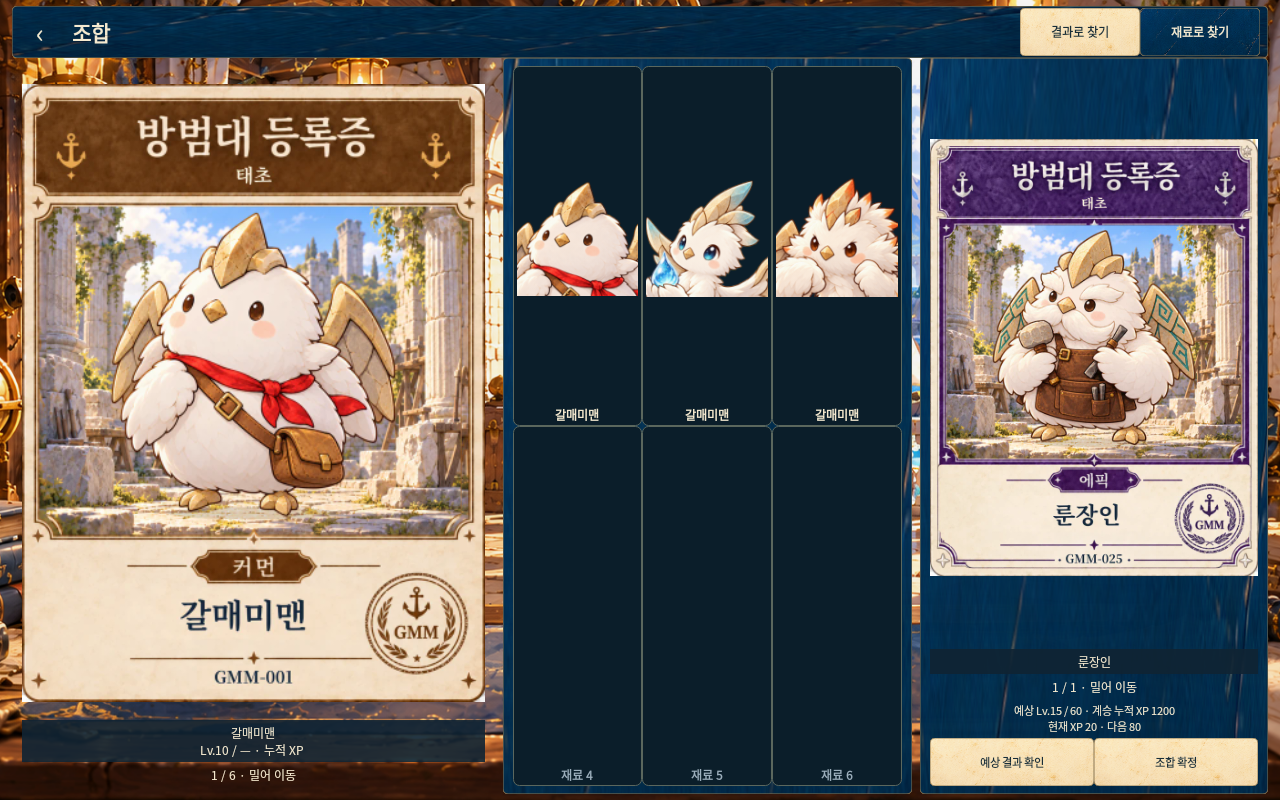
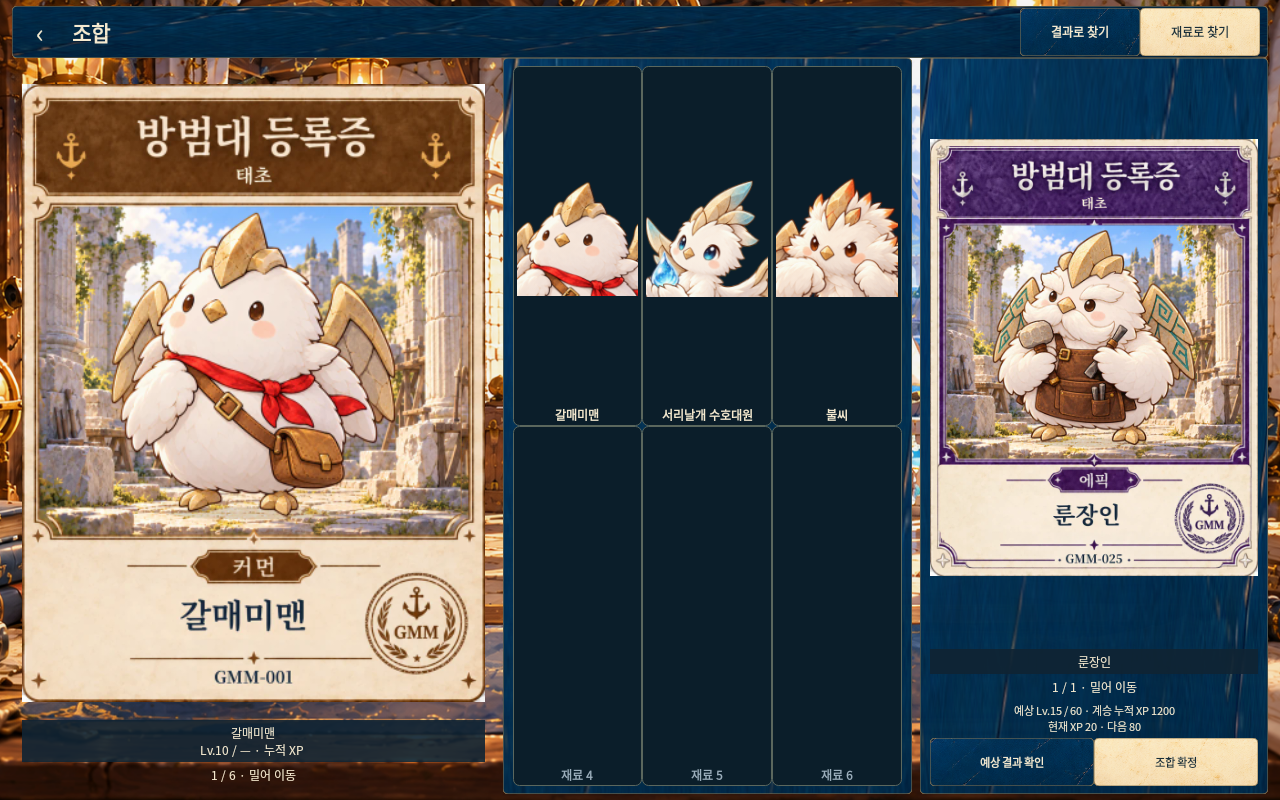
Correct formation navigation and craft emphasis after native render QA

diff --git a/galmaegiman-confirmed/app/android/app/src/test/java/org/dpdns/gmm/Roster60ProductPresentationTest.java b/galmaegiman-confirmed/app/android/app/src/test/java/org/dpdns/gmm/Roster60ProductPresentationTest.java
@@ -12,7 +12,7 @@ public class Roster60ProductPresentationTest {
  final NativeGameFlowTest fixtures=new NativeGameFlowTest();
  @Before public void isolate(){fixtures.isolate();}
  void authenticate(MainActivity h){h.api.close();h.api=new NativeReviewDeepLinkTest.Recording(h);h.api.token("presentation-fixture");}
- JSONObject fighter(String id)throws Exception {JSONArray skills=new JSONArray();for(int i=0;i<6;i++)skills.put(new JSONObject().put("id","s"+i).put("name","기술 "+i).put("element","NORMAL").put("mpCost",2).put("power",12));return new JSONObject().put("speciesId",id).put("name","갈매미맨").put("level",10).put("hp",120).put("mp",23).put("stats",new JSONObject().put("hp",150).put("mp",30).put("durability",15).put("statusResistance",10).put("speed",20)).put("suitability",new JSONObject().put("NORMAL",2)).put("skills",skills);}
+ JSONObject fighter(String id)throws Exception {JSONArray skills=new JSONArray();for(int i=0;i<6;i++)skills.put(new JSONObject().put("id","s"+i).put("name","기술 "+i).put("element","NORMAL").put("mpCost",2).put("power",12));return new JSONObject().put("speciesId",id).put("name",id.equals("u01")?"갈매미맨":id.equals("u07")?"불씨":id.equals("u06")?"서리날개 수호대원":id.equals("u05")?"황금":"먹구름").put("rarity",id.equals("u01")?"COMMON":"EPIC").put("level",10).put("hp",120).put("mp",23).put("stats",new JSONObject().put("hp",150).put("mp",30).put("durability",15).put("statusResistance",10).put("speed",20)).put("suitability",new JSONObject().put("NORMAL",2)).put("skills",skills);}
  JSONObject snapshot(String status)throws Exception{return new JSONObject().put("battleId","fixture-battle").put("revision",1).put("status",status).put("testBaseline",true).put("balanceProfile","not-for-player-screen").put("state",new JSONObject().put("version","five-battle-v1").put("turn",2).put("outcome","win").put("mode","story").put("fighters",new JSONArray().put(fighter("u01")).put(fighter("u07")))).put("settlement",new JSONObject().put("xpAwarded",10));}
  @Test public void battlefieldHasAttachedVitalsAndCompactCommandsWithoutDebugControls()throws Exception{
   try(var c=fixtures.start()){MainActivity h=c.get();authenticate(h);NativeRoster60Battle b=new NativeRoster60Battle(h){@Override void resume(){}};b.open();b.bind(snapshot("ACTIVE"));
@@ -42,6 +42,18 @@ public class Roster60ProductPresentationTest {
   }
  }
 
+ @Test public void craftTabsMatchVisibleModeAndOnlyConfirmIsPrimary()throws Exception{
+  try(var c=fixtures.start()){MainActivity h=c.get();authenticate(h);NativeRoster60Craft craft=new NativeRoster60Craft(h.menus.economy);
+   for(boolean material:new boolean[]{true,false,true}){craft.open(material);craft.loading=false;craft.units=new JSONArray().put(fighter("u01").put("ownedId","one"));craft.recipes=new JSONArray().put(new JSONObject().put("resultId","u07").put("name","불씨"));craft.render();
+    assertEquals(material,h.root.findViewWithTag("craft-tab-material").isSelected());assertEquals(!material,h.root.findViewWithTag("craft-tab-result").isSelected());assertNotNull(craft.cols[0].findViewWithTag(material?"craft-material-portrait":"craft-result-portrait"));assertEquals(NavyWorkbenchTheme.TEXT,craft.previewButton.getCurrentTextColor());assertEquals(NavyWorkbenchTheme.INK,craft.confirmButton.getCurrentTextColor());
+   }craft.leave();}
+ }
+ @Test public void formationSwipeCancelsTileClickAndBackRestoresMode()throws Exception{
+  try(var c=fixtures.start()){MainActivity h=c.get();authenticate(h);NativeRoster60Battle b=new NativeRoster60Battle(h){@Override void resume(){}@Override void options(){message.setText("전투 선택");}};b.open();b.bind(snapshot("ACTIVE"));JSONArray units=new JSONArray();for(int i=0;i<8;i++)units.put(fighter("u01").put("ownedId","o"+i));b.showFormation(units,new JSONObject().put("mode","adventure"));assertTrue(b.message.getText().toString().contains("모험"));Roster60FormationView f=b.formation;
+   h.root.measure(View.MeasureSpec.makeMeasureSpec(780,View.MeasureSpec.EXACTLY),View.MeasureSpec.makeMeasureSpec(319,View.MeasureSpec.EXACTLY));h.root.layout(0,0,780,319);View row=f.findViewWithTag("formation-owned-swipe");long time=android.os.SystemClock.uptimeMillis();for(int action:new int[]{MotionEvent.ACTION_DOWN,MotionEvent.ACTION_MOVE,MotionEvent.ACTION_UP}){MotionEvent e=MotionEvent.obtain(time,time+10,action,action==MotionEvent.ACTION_DOWN?200:80,30,0);row.dispatchTouchEvent(e);e.recycle();}assertEquals(1,f.page);assertTrue(f.selected.isEmpty());b.back();assertNull(b.formation);assertEquals("전투 선택",b.message.getText().toString());b.bind(snapshot("ACTIVE"));assertTrue(b.message.getText().toString().startsWith("턴"));b.pause();
+  }
+ }
+
  void capture(MainActivity h,String name,int w,int height)throws Exception{
   h.root.measure(View.MeasureSpec.makeMeasureSpec(w,View.MeasureSpec.EXACTLY),View.MeasureSpec.makeMeasureSpec(height,View.MeasureSpec.EXACTLY));h.root.layout(0,0,w,height);
   android.graphics.Bitmap bitmap=android.graphics.Bitmap.createBitmap(w,height,android.graphics.Bitmap.Config.ARGB_8888);h.root.draw(new android.graphics.Canvas(bitmap));
@@ -57,7 +69,7 @@ public class Roster60ProductPresentationTest {
    NativeRoster60ProductBattleTest.named(b.panel,"기술").performClick();capture(h,"skills",size[0],size[1]);
    Button skill=NativeRoster60ProductBattleTest.named(b.panel,"기술 1");long down=android.os.SystemClock.uptimeMillis();NativeRoster60ProductBattleTest.touch(skill,MotionEvent.ACTION_DOWN,down);ShadowLooper.idleMainLooper((long)ViewConfiguration.getLongPressTimeout()+1);capture(h,"hold",size[0],size[1]);assertEquals(View.VISIBLE,h.root.findViewWithTag("battle-hold-description").getVisibility());NativeRoster60ProductBattleTest.touch(skill,MotionEvent.ACTION_UP,down);assertEquals(View.INVISIBLE,h.root.findViewWithTag("battle-hold-description").getVisibility());
    b.chooseSwitch();b.choicePanel.findViewWithTag("battle-switch-reserve0").performClick();capture(h,"switch",size[0],size[1]);assertTrue(b.choicePanel.findViewWithTag("battle-switch-confirm").isEnabled());
-   JSONArray units=new JSONArray();for(int i=0;i<6;i++)units.put(fighter(i==0?"u01":ids[i-1]).put("ownedId","o"+i));b.closeChoices();b.showFormation(units,new JSONObject().put("mode","story").put("id","fixture"));for(int i=0;i<6;i++)b.formation.toggle(units.getJSONObject(i));capture(h,"formation",size[0],size[1]);assertTrue(b.formation.start.getHeight()>=48);b.pause();
+   JSONArray units=new JSONArray();for(int i=0;i<6;i++)units.put(fighter(i==0?"u01":ids[i-1]).put("ownedId","o"+i));b.closeChoices();b.showFormation(units,new JSONObject().put("mode","story").put("id","fixture"));for(int i=0;i<6;i++)b.formation.toggle(units.getJSONObject(i));b.formation.focused="o1";b.formation.draw();assertTrue(b.message.getText().toString().startsWith("전투 편성"));assertFalse(b.message.getText().toString().contains("턴 2"));capture(h,"formation",size[0],size[1]);assertTrue(b.formation.start.getHeight()>=48);b.pause();
    NativeRoster60Craft craft=new NativeRoster60Craft(h.menus.economy);craft.open(true);craft.loading=false;craft.version="render-fixture";craft.preview=new JSONObject().put("expectedLevel",15).put("maxLevel",60).put("inheritedTotalXp","1200").put("remainingXp","20").put("xpToNext","80");craft.units=units;craft.recipes=new JSONArray().put(new JSONObject().put("resultId","u25").put("name","룬장인"));for(int i=0;i<3;i++)craft.selected.put("o"+i,units.getJSONObject(i));craft.render();capture(h,"craft",size[0],size[1]);craft.leave();
   }
  }

diff --git a/galmaegiman-confirmed/app/android/app/src/main/java/org/dpdns/gmm/Roster60FormationView.java b/galmaegiman-confirmed/app/android/app/src/main/java/org/dpdns/gmm/Roster60FormationView.java
@@ -3,15 +3,17 @@ import android.view.*;import android.widget.*;import org.json.*;import java.util
 /** Product party selection before a server battle; no fixture, local combat or grant. */
 final class Roster60FormationView extends LinearLayout {
  final MainActivity h;final JSONArray units;final Consumer<JSONArray> confirm;final ArrayList<String> selected=new ArrayList<>();
- final LinearLayout left,right;final ImageView focus;final TextView caption;final Button start;int page;String focused="";boolean locked;
+ final LinearLayout left,right;final ImageView focus;final TextView caption,title,level;final Button start;int page;String focused="";boolean locked;
  Roster60FormationView(MainActivity h,JSONArray units,Consumer<JSONArray> confirm,Runnable cancel){
   super(h);this.h=h;this.units=units;this.confirm=confirm;setOrientation(HORIZONTAL);setTag("roster60-formation");setBackground(ThemeArt.of(h).background("backgrounds/bg-navigation-workshop-v1.png"));
   left=new LinearLayout(h);left.setOrientation(VERTICAL);left.setBackground(NavyWorkbenchTheme.surface(h,NavyWorkbenchTheme.PANEL,NavyWorkbenchTheme.LINE,8));addView(left,new LayoutParams(0,-1,3));
   right=new LinearLayout(h);right.setOrientation(VERTICAL);right.setBackground(NavyWorkbenchTheme.surface(h,NavyWorkbenchTheme.PANEL,NavyWorkbenchTheme.LINE,8));addView(right,new LayoutParams(0,-1,1));
+  title=h.text("대원을 선택하세요",16);CombatV2ReviewStyle.text(title);title.setTextColor(NavyWorkbenchTheme.TEXT);title.setMaxLines(1);title.setEllipsize(android.text.TextUtils.TruncateAt.END);right.addView(title);level=h.text("출전 1 + 예비 5",12);CombatV2ReviewStyle.text(level);level.setTextColor(NavyWorkbenchTheme.MUTED);right.addView(level);
   focus=new ImageView(h);focus.setTag("formation-focused-portrait");right.addView(focus,new LayoutParams(-1,0,1));caption=h.text("출전 1 + 예비 최대 5",12);CombatV2ReviewStyle.text(caption);caption.setTextColor(NavyWorkbenchTheme.TEXT);right.addView(caption);
   start=h.button("편성 확정 · 전투 시작",()->{if(locked||selected.isEmpty())return;submit();});start.setTag("formation-confirm");start.setTextSize(12);start.setBackground(new BattleSkin(h,"button-surrender"));CombatV2ReviewStyle.text(start);start.setTextColor(JournalTheme.INK);right.addView(start,new LayoutParams(-1,h.dp(48)));
-  right.addView(h.button("돌아가기",cancel),new LayoutParams(-1,h.dp(48)));draw();
+  if(units.length()>0)focused=units.optJSONObject(0).optString("ownedId");draw();
  }
+ static String grade(String grade){switch(grade){case "COMMON":return "커먼";case "UNCOMMON":return "언커먼";case "RARE":return "레어";case "EPIC":return "에픽";case "LEGEND":return "전설";case "HIDDEN":return "히든";case "LIMITED":return "제한";case "TRANSCENDENT":return "초월";case "IMMORTAL":return "불멸";case "ETERNAL":return "영원";default:return grade;}}
  static String memberDetails(JSONObject u){String text=u.optString("name")+(u.has("level")?" · Lv"+u.optInt("level")+"/"+u.optInt("maxLevel",60):"");JSONObject stats=u.optJSONObject("stats");if(stats!=null)text+="\nHP "+stats.optInt("hp")+" · MP "+stats.optInt("mp")+"\n내구 "+stats.optInt("durability")+" · 저항 "+stats.optInt("statusResistance")+" · 속도 "+stats.optInt("speed");return text;}
  JSONObject unit(String id){for(int i=0;i<units.length();i++)if(id.equals(units.optJSONObject(i).optString("ownedId")))return units.optJSONObject(i);return null;}
  void toggle(JSONObject u){if(locked)return;String id=u.optString("ownedId");focused=id;if(selected.contains(id))selected.remove(id);else if(selected.size()<6)selected.add(id);draw();}
@@ -19,9 +21,9 @@ final class Roster60FormationView extends LinearLayout {
  void unlock(){locked=false;draw();}
  void draw(){left.removeAllViews();LinearLayout slots=new LinearLayout(h);left.addView(slots,new LayoutParams(-1,0,1));
   for(int n=0;n<6;n++){JSONObject u=n<selected.size()?unit(selected.get(n)):null;Roster60MemberTile tile=new Roster60MemberTile(h,u,(n==0?"출전":"예비 "+n)+(u==null?"":" · "+u.optString("name")),u!=null&&!locked,()->toggle(u));slots.addView(tile,new LayoutParams(0,-1,1));}
-  int pages=Math.max(1,(units.length()+2)/3);page=Math.min(page,pages-1);
-  for(int row=0;row<1;row++){LinearLayout line=new LinearLayout(h);left.addView(line,new LayoutParams(-1,0,1));for(int col=0;col<3;col++){int index=page*3+col;if(index>=units.length()){line.addView(new View(h),new LayoutParams(0,-1,1));continue;}JSONObject u=units.optJSONObject(index);Roster60MemberTile tile=new Roster60MemberTile(h,u,(selected.contains(u.optString("ownedId"))?"✓ ":"")+u.optString("name"),!locked,()->toggle(u));tile.action.setTag("formation-unit-"+u.optString("ownedId"));line.addView(tile,new LayoutParams(0,-1,1));}}
-  if(pages>1){LinearLayout nav=new LinearLayout(h);Button prev=h.button("‹",()->{page--;draw();}),next=h.button("›",()->{page++;draw();});prev.setEnabled(page>0&&!locked);next.setEnabled(page<pages-1&&!locked);nav.addView(prev,new LayoutParams(0,h.dp(48),1));nav.addView(next,new LayoutParams(0,h.dp(48),1));left.addView(nav);}
-  JSONObject u=unit(focused);if(u!=null){Roster60Portrait.bind(h,focus,u.optString("speciesId"));caption.setText(memberDetails(u)+"\n편성 "+selected.size()+"/6");}start.setEnabled(!locked&&!selected.isEmpty());
+  int pages=Math.max(1,(units.length()+3)/4);page=Math.min(page,pages-1);
+  for(int row=0;row<1;row++){LinearLayout line=new Roster60SwipeRow(h,d->{if(!locked){page=Math.max(0,Math.min(pages-1,page+d));draw();}});line.setTag("formation-owned-swipe");left.addView(line,new LayoutParams(-1,0,1));for(int col=0;col<4;col++){int index=page*4+col;if(index>=units.length()){line.addView(new View(h),new LayoutParams(0,-1,1));continue;}JSONObject u=units.optJSONObject(index);Roster60MemberTile tile=new Roster60MemberTile(h,u,(selected.contains(u.optString("ownedId"))?"✓ ":"")+u.optString("name"),!locked,()->toggle(u));tile.action.setTag("formation-unit-"+u.optString("ownedId"));line.addView(tile,new LayoutParams(0,-1,1));}}
+  TextView indicator=h.text((page+1)+" / "+pages+" · 좌우로 넘기기",11);CombatV2ReviewStyle.text(indicator);indicator.setTextColor(NavyWorkbenchTheme.MUTED);indicator.setGravity(Gravity.CENTER);indicator.setTag("formation-page");left.addView(indicator,new LayoutParams(-1,h.dp(22)));
+  JSONObject u=unit(focused);if(u!=null){Roster60Portrait.bind(h,focus,u.optString("speciesId"));title.setText(u.optString("name"));level.setText(grade(u.optString("rarity"))+" · Lv"+u.optInt("level",1)+"/"+u.optInt("maxLevel",60));JSONObject st=u.optJSONObject("stats");caption.setText(st==null?"편성 "+selected.size()+"/6":"HP "+st.optInt("hp")+" · MP "+st.optInt("mp")+"\n내구 "+st.optInt("durability")+" · 저항 "+st.optInt("statusResistance")+" · 속도 "+st.optInt("speed"));}start.setEnabled(!locked&&!selected.isEmpty());
  }
 }

diff --git a/galmaegiman-confirmed/app/android/app/src/main/java/org/dpdns/gmm/NativeRoster60Battle.java b/galmaegiman-confirmed/app/android/app/src/main/java/org/dpdns/gmm/NativeRoster60Battle.java
@@ -8,7 +8,7 @@ import org.json.*;
 class NativeRoster60Battle {
  final MainActivity h; final SharedPreferences prefs;
  static final Set<String> IN_FLIGHT=new HashSet<>();
- String owner,key,autoSettled="",settlementError=""; int epoch; LinearLayout container; TextView message,stats; Button retry,settle,returnAdventure;
+ String owner,key,autoSettled="",settlementError=""; int epoch; LinearLayout container; TextView message,stats; Button retry,settle,returnAdventure,home;
  Roster60FormationView formation;LinearLayout arena;
  LinearLayout choicePanel;String choiceKind="",switchTarget="",targetItem="";int itemPage;
  NativeRoster60Art art; CombatV2ReviewPanel panel; JSONObject view,adventure; boolean reading; android.app.AlertDialog selection;
@@ -22,7 +22,7 @@ class NativeRoster60Battle {
   h.base("전투","roster60Battle");owner=h.api.token();key=NativeProgression.accountKey(BuildConfig.SERVER_URL+"|"+owner+storageScope());epoch=h.epoch;
   h.page.removeAllViews();
   container=new LinearLayout(h);container.setOrientation(LinearLayout.VERTICAL);container.setBackgroundColor(NavyWorkbenchTheme.HEADER);h.page.addView(container,new LinearLayout.LayoutParams(-1,0,1));
-  LinearLayout toolbar=new LinearLayout(h);Button home=h.button("‹ 홈",()->back());home.setTextSize(12);toolbar.addView(home,new LinearLayout.LayoutParams(h.dp(72),h.dp(48)));
+  LinearLayout toolbar=new LinearLayout(h);home=h.button("‹ 홈",()->back());home.setTextSize(12);toolbar.addView(home,new LinearLayout.LayoutParams(h.dp(72),h.dp(48)));
   message=h.text("전투 확인 중…",12);message.setTextColor(NavyWorkbenchTheme.TEXT);message.setMaxLines(2);toolbar.addView(message,new LinearLayout.LayoutParams(0,h.dp(48),1));container.addView(toolbar);
   // Same field/right-hand command split as production BattleView.onMeasure().
   arena=new LinearLayout(h);arena.setOrientation(LinearLayout.HORIZONTAL);arena.setBaselineAligned(false);container.addView(arena,new LinearLayout.LayoutParams(-1,0,1));
@@ -69,10 +69,10 @@ class NativeRoster60Battle {
   });
  }
  void showFormation(JSONArray units,JSONObject encounter){
-  if(formation!=null)container.removeView(formation);arena.setVisibility(android.view.View.GONE);
+  if(formation!=null)container.removeView(formation);panel.cancelInteraction();arena.setVisibility(android.view.View.GONE);home.setText("‹ 뒤로");message.setText("전투 편성 · "+("adventure".equals(encounter.optString("mode"))?"모험":"스토리")+" · 출전 1 + 예비 5");
   formation=new Roster60FormationView(h,units,ids->{if(!current())return;if(!prefs.getString(key+":pending","").isEmpty()){resume();return;}if("adventure".equals(encounter.optString("mode")))mutate("adventure/start",h.obj("ownedIds",ids));else{JSONArray reserves=new JSONArray();for(int i=1;i<ids.length();i++)reserves.put(ids.optString(i));mutate("create",h.obj("ownedId",ids.optString(0),"reserveIds",reserves,"encounterId",encounter.optString("id")));}},()->{clearFormation();options();});container.addView(formation,new LinearLayout.LayoutParams(-1,0,1));
  }
- void clearFormation(){if(formation!=null){container.removeView(formation);formation=null;}arena.setVisibility(android.view.View.VISIBLE);}
+ void clearFormation(){if(formation!=null){container.removeView(formation);formation=null;}arena.setVisibility(android.view.View.VISIBLE);if(home!=null)home.setText("‹ 홈");}
  void chooseReserves(JSONArray units,String first,String encounter,boolean isAdventure){
   ArrayList<JSONObject> candidates=new ArrayList<>();for(int i=0;i<units.length();i++)if(!first.equals(units.optJSONObject(i).optString("ownedId")))candidates.add(units.optJSONObject(i));
   String[] names=new String[candidates.size()];boolean[] checked=new boolean[names.length];for(int i=0;i<names.length;i++)names[i]=candidates.get(i).optString("name");
@@ -157,6 +157,6 @@ class NativeRoster60Battle {
   }catch(Exception bad){view=null;panel.lock();settle.setEnabled(false);message.setText("서버 전투 데이터 형식을 확인할 수 없습니다.");}
  }
  static String resultLabel(String outcome){return "win".equals(outcome)?"승리":"loss".equals(outcome)?"패배":"escaped".equals(outcome)?"도망 성공":"전투 종료";}
- boolean back(){if(!choiceKind.isEmpty()){closeChoices();return true;}if(panel!=null){panel.cancelInteraction();if(panel.showCommands())return true;}h.load("home");return true;}
+ boolean back(){if(formation!=null){clearFormation();message.setText("전투를 선택하세요.");options();return true;}if(!choiceKind.isEmpty()){closeChoices();return true;}if(panel!=null){panel.cancelInteraction();if(panel.showCommands())return true;}h.load("home");return true;}
  void pause(){if(panel!=null)panel.cancelInteraction();if(selection!=null){selection.dismiss();selection=null;}}
 }

diff --git a/galmaegiman-confirmed/app/android/app/src/main/java/org/dpdns/gmm/NativeRoster60Pvp.java b/galmaegiman-confirmed/app/android/app/src/main/java/org/dpdns/gmm/NativeRoster60Pvp.java
@@ -39,10 +39,10 @@ final class NativeRoster60Pvp {
  LinearLayout slots=new LinearLayout(h);roster.addView(slots,new LinearLayout.LayoutParams(-1,0,1));
  for(int slot=0;slot<6;slot++){final String id=slot<selected.size()?selected.get(slot):"";JSONObject u=unit(id);String title=(slot==0?"출전":"예비 "+slot)+(u==null?"": " · "+u.optString("name"));Roster60MemberTile tile=new Roster60MemberTile(h,u,title,u!=null&&!busy&&!waiting,()->{focused=id;selected.remove(id);drawParty();});tile.setTag("party-selected-"+slot);slots.addView(tile,new LinearLayout.LayoutParams(0,-1,1));}
  JSONObject focus=unit(focused);if(focus==null&&!selected.isEmpty()){focused=selected.get(0);focus=unit(focused);}if(focus!=null){Roster60Portrait.bind(h,focusedArt,focus.optString("speciesId"));focusedName.setText(Roster60FormationView.memberDetails(focus));}
-int pages=Math.max(1,(units.length()+2)/3);rosterPage=Math.min(rosterPage,pages-1);
+int pages=Math.max(1,(units.length()+3)/4);rosterPage=Math.min(rosterPage,pages-1);
  if(units.length()==0){TextView empty=h.text("표시할 새 개체가 없습니다.\n튜토리얼 시작 상태를 확인하세요.",14);empty.setTextColor(NavyWorkbenchTheme.TEXT);roster.addView(empty,new LinearLayout.LayoutParams(-1,0,1));Button start=h.button("튜토리얼 확인",()->new NativeRoster60Onboarding(h).open());style(start);roster.addView(start,new LinearLayout.LayoutParams(-1,h.dp(48)));}
- else for(int row=0;row<1;row++){LinearLayout line=new LinearLayout(h);roster.addView(line,new LinearLayout.LayoutParams(-1,0,1));for(int col=0;col<3;col++){int i=rosterPage*3+col;if(i>=units.length()){line.addView(new android.view.View(h),new LinearLayout.LayoutParams(0,-1,1));continue;}JSONObject u=units.optJSONObject(i);String id=u.optString("ownedId");Roster60MemberTile tile=new Roster60MemberTile(h,u,(selected.contains(id)?"✓ ":"")+u.optString("name")+(selected.indexOf(id)==0?" · 출전":""),!busy&&!waiting,()->{if(busy||waiting)return;focused=id;if(selected.contains(id))selected.remove(id);else if(selected.size()<6)selected.add(id);else status.setText("출전 포함 최대 6마리입니다.");drawParty();});tile.action.setTag("party-unit-"+id);line.addView(tile,new LinearLayout.LayoutParams(0,-1,1));}}
- if(pages>1){LinearLayout nav=new LinearLayout(h);roster.addView(nav,new LinearLayout.LayoutParams(-1,h.dp(48)));Button prev=h.button("‹",()->{rosterPage=Math.max(0,rosterPage-1);drawParty();}),next=h.button("›",()->{rosterPage=Math.min(pages-1,rosterPage+1);drawParty();});style(prev);style(next);prev.setEnabled(rosterPage>0);next.setEnabled(rosterPage<pages-1);nav.addView(prev,new LinearLayout.LayoutParams(0,-1,1));TextView page=h.text((rosterPage+1)+" / "+pages,12);page.setTextColor(NavyWorkbenchTheme.TEXT);nav.addView(page,new LinearLayout.LayoutParams(0,-1,1));nav.addView(next,new LinearLayout.LayoutParams(0,-1,1));}
+ else for(int row=0;row<1;row++){LinearLayout line=new Roster60SwipeRow(h,d->{if(!busy&&!waiting){rosterPage=Math.max(0,Math.min(pages-1,rosterPage+d));drawParty();}});roster.addView(line,new LinearLayout.LayoutParams(-1,0,1));for(int col=0;col<4;col++){int i=rosterPage*4+col;if(i>=units.length()){line.addView(new android.view.View(h),new LinearLayout.LayoutParams(0,-1,1));continue;}JSONObject u=units.optJSONObject(i);String id=u.optString("ownedId");Roster60MemberTile tile=new Roster60MemberTile(h,u,(selected.contains(id)?"✓ ":"")+u.optString("name")+(selected.indexOf(id)==0?" · 출전":""),!busy&&!waiting,()->{if(busy||waiting)return;focused=id;if(selected.contains(id))selected.remove(id);else if(selected.size()<6)selected.add(id);else status.setText("출전 포함 최대 6마리입니다.");drawParty();});tile.action.setTag("party-unit-"+id);line.addView(tile,new LinearLayout.LayoutParams(0,-1,1));}}
+ TextView page=h.text((rosterPage+1)+" / "+pages+" · 좌우로 넘기기",11);CombatV2ReviewStyle.text(page);page.setGravity(Gravity.CENTER);page.setTextColor(NavyWorkbenchTheme.MUTED);roster.addView(page,new LinearLayout.LayoutParams(-1,h.dp(22)));
  summary.setText("편성 "+selected.size()+" / 6 · 먼저 선택한 개체가 첫 출전 · 탭으로 추가/해제");enable();
  }
 

diff --git a/galmaegiman-confirmed/app/android/app/src/main/java/org/dpdns/gmm/NativeRoster60Craft.java b/galmaegiman-confirmed/app/android/app/src/main/java/org/dpdns/gmm/NativeRoster60Craft.java
@@ -26,7 +26,7 @@ final class NativeRoster60Craft {
   try{String saved=preferences().getString(ownerKey(),null);pending=saved==null?null:new JSONObject(saved);}catch(Exception invalid){pending=null;savePending();}
   h.base(text(R.string.roster60_craft_title),mix?"mix":"craftRecipes");screenEpoch=h.epoch;economy.economyScene("workshop");NavyWorkbenchTheme.page(h);
   LinearLayout tools=k.row();tools.setTag("craft-inline-tools");
-  for(boolean materials:new boolean[]{false,true}){Button tab=k.action(null,text(materials?R.string.roster60_craft_material_tab:R.string.roster60_craft_recipe_tab),()->open(materials));NavyWorkbenchTheme.tab(h,tab,mix==materials);tab.setTextSize(12);tab.setSingleLine(false);tab.setMaxLines(1);tab.setEllipsize(android.text.TextUtils.TruncateAt.END);tab.setMinWidth(h.dp(120));tab.setMinimumWidth(h.dp(120));tools.addView(tab,new LinearLayout.LayoutParams(-2,h.dp(48)));}
+  for(boolean materials:new boolean[]{false,true}){Button tab=k.action(null,text(materials?R.string.roster60_craft_material_tab:R.string.roster60_craft_recipe_tab),()->open(materials));NavyWorkbenchTheme.tab(h,tab,mix!=materials);tab.setSelected(mix==materials);tab.setTag(materials?"craft-tab-material":"craft-tab-result");tab.setTextSize(12);tab.setSingleLine(false);tab.setMaxLines(1);tab.setEllipsize(android.text.TextUtils.TruncateAt.END);tab.setMinWidth(h.dp(120));tab.setMinimumWidth(h.dp(120));tools.addView(tab,new LinearLayout.LayoutParams(-2,h.dp(48)));}
   LinearLayout header=h.page.findViewWithTag("theme-page-header");header.addView(tools,new LinearLayout.LayoutParams(-2,h.dp(48)));cols=economy.navyMixColumns();
   if(pending!=null)checkReceipt();else load();
  }
@@ -57,7 +57,7 @@ final class NativeRoster60Craft {
   TextView state=label(preview==null?message+(conditions().isEmpty()?"":"\n"+conditions()):text(R.string.roster60_craft_prediction,preview.optInt("expectedLevel"),preview.optString("maxLevel","—"),preview.optString("inheritedTotalXp")));state.setTag("roster60-craft-status");state.setTextSize(11);if(preview!=null&&preview.has("remainingXp"))state.append("\n현재 XP "+preview.optString("remainingXp")+(preview.isNull("xpToNext")?"":" · 다음 "+preview.optString("xpToNext")));state.setMaxLines(3);cols[2].addView(state,new LinearLayout.LayoutParams(-1,-2));
   previewButton=k.action(null,text(version.isEmpty()?R.string.roster60_craft_reload:R.string.roster60_craft_preview),()->{if(version.isEmpty())load();else requestPreview();});previewButton.setTag("roster60-craft-preview");previewButton.setEnabled(!loading&&!submitting&&pending==null&&(version.isEmpty()||(!selected.isEmpty()&&recipes.length()>0)));
   confirmButton=k.action(null,text(pending==null?R.string.roster60_craft_confirm:R.string.roster60_craft_retry),this::confirm);confirmButton.setTag("roster60-craft-confirm");confirmButton.setEnabled(!loading&&!submitting&&(preview!=null||pending!=null));
-  LinearLayout actions=k.row();cols[2].addView(actions,new LinearLayout.LayoutParams(-1,h.dp(48)));for(Button b:new Button[]{previewButton,confirmButton}){NavyWorkbenchTheme.tab(h,b,false);b.setTextSize(11);b.setMinWidth(0);b.setMinimumWidth(0);actions.addView(b,new LinearLayout.LayoutParams(0,-1,1));}
+  LinearLayout actions=k.row();cols[2].addView(actions,new LinearLayout.LayoutParams(-1,h.dp(48)));for(Button b:new Button[]{previewButton,confirmButton}){NavyWorkbenchTheme.tab(h,b,b==previewButton);b.setTextSize(11);b.setMinWidth(0);b.setMinimumWidth(0);actions.addView(b,new LinearLayout.LayoutParams(0,-1,1));}
  }
  JSONObject selection(){JSONObject recipe=current(recipes,recipePage);return MainActivity.obj("resultId",recipe==null?"":recipe.optString("resultId"),"materialIds",new JSONArray(selected.keySet()),"catalogVersion",version);}
  void requestPreview(){if(loading||submitting||pending!=null)return;loading=true;preview=null;render();int ticket=++generation;JSONObject request=selection();h.api.call("native/roster60/craft/preview",request,(r,e)->{if(!valid(ticket))return;loading=false;preview=e==null?r:null;message=text(R.string.roster60_craft_preview_failed);render();});}

diff --git a/galmaegiman-confirmed/app/android/app/src/main/java/org/dpdns/gmm/Roster60SwipeRow.java b/galmaegiman-confirmed/app/android/app/src/main/java/org/dpdns/gmm/Roster60SwipeRow.java
@@ -1,0 +1,9 @@
+package org.dpdns.gmm;
+import android.view.*;import android.widget.LinearLayout;import java.util.function.IntConsumer;
+/** Intercepts horizontal drags only; child clicks receive CANCEL when paging starts. */
+final class Roster60SwipeRow extends LinearLayout {
+ final int threshold;final IntConsumer turn;float downX,downY;boolean dragging;
+ Roster60SwipeRow(MainActivity h,IntConsumer turn){super(h);this.turn=turn;threshold=h.dp(32);setOrientation(HORIZONTAL);}
+ @Override public boolean onInterceptTouchEvent(MotionEvent e){if(e.getActionMasked()==MotionEvent.ACTION_DOWN){downX=e.getX();downY=e.getY();dragging=false;}if(e.getActionMasked()==MotionEvent.ACTION_MOVE&&Math.abs(e.getX()-downX)>threshold&&Math.abs(e.getX()-downX)>Math.abs(e.getY()-downY)){dragging=true;return true;}return false;}
+ @Override public boolean onTouchEvent(MotionEvent e){if(e.getActionMasked()==MotionEvent.ACTION_UP&&dragging){dragging=false;turn.accept(e.getX()<downX?1:-1);return true;}if(e.getActionMasked()==MotionEvent.ACTION_CANCEL)dragging=false;return true;}
+}

diff --git a/galmaegiman-confirmed/docs/reviews/ui-v3-product-20261025/README.md b/galmaegiman-confirmed/docs/reviews/ui-v3-product-20261025/README.md
@@ -25,7 +25,7 @@
 - 서버 `npm run build` 성공, 격리 `npm run test:db` 최종 66파일/689시험 성공.
   첫 전체 실행은 기존 realtime-casual-ai.integration.test.ts:86 무작위 AI 분기에서
   1건 실패했다. 해당 코드 변경 없이 단독 24/24 및 전체 재실행 689/689 성공.
-- Android org.gmm debug 소스 컴파일 및 관련 Robolectric 16시험 성공.
+- Android org.gmm debug 소스 컴파일 및 관련 Robolectric 18시험 성공.
 - 이 폴더의 PNG는 실제 MainActivity/product View를 Robolectric native graphics로
   780×319, 1280×800 크기에 measure/layout/draw한 결과다. 이미지 재조립 시안이 아니다.
   API는 recording mock, 인물명·레벨·기술·예상 XP는 배치 시험용 fixture이다.
@@ -33,8 +33,23 @@
 
 ## 남은 확인
 - 실기기 APK 설치, 실제 로그인 서버 왕복, 폰 DPI/노치/글꼴 확대 및 터치 체감은 미검증.
-- 기준 시안과 픽셀 단위 동일성을 주장하지 않는다. 보유 목록은 현재 3개씩 페이지 처리하며,
-  시안의 4개 표시 및 세부 간격/글자 크기는 실기기 검토 후 조정 대상이다.
+- 기준 시안과 픽셀 단위 동일성을 주장하지 않는다. 보유 목록은 시안의 4명 가로 페이지로
+  수정했으며 폰/태블릿 양쪽을 렌더했다. 실기기 DPI/글꼴 확대 검증은 별도다.
 - 기존 앞뒤 전투 원본과 등록증 원본은 보존했다. 새 자산만 런타임에 선별 추가했다.
 - 서명 APK 생성/운영 배포/DB 변경은 하지 않았다. GitHub CI API 조회는 기존 Forbidden으로
   확인 불가하며 우회하지 않았다.
+
+## 렌더 QA 후속 수정
+- 편성 진입 시 실제 NativeRoster60Battle 헤더를 `전투 편성 · 스토리/모험`으로 갱신한다.
+  상단 뒤로가기는 편성을 닫고 전투 선택으로 돌아간다. 전투 snapshot bind 시 전투 헤더를 복원한다.
+- 편성 하단 큰 이전/다음 버튼과 우측 돌아가기 버튼을 제거했다. 4명 가로 스와이프 + 작은
+  페이지 표시를 사용한다. 드래그 시 자식 버튼에 CANCEL이 전달되어 대원 선택이 일어나지 않는다.
+  대전/관리 보유 목록도 같은 가로 스와이프를 사용한다.
+- 선택 대원 이름, 등급/레벨, 전신, HP/MP 및 나머지 3스탯을 분리했다.
+- 공용 tab 스타일의 `selected=true`는 남색을 뜻하므로 조합에서는 실제 활성 탭이 밝아지도록
+  색상을 명시적으로 반전하고 View.selected는 실제 모드를 보존했다. 재료/결과 왕복 시험 추가.
+- 예상 결과 확인은 남색 보조 버튼, 조합 확정만 종이색 주행동이다. preview fingerprint와
+  선택 변경 시 preview 폐기, 서버 재조회, 멱등 요청은 그대로다.
+- 렌더 fixture에 불씨/황금/먹구름/긴 이름/서로 다른 등급을 사용했다. 이 명칭 조합과 수치는
+  레이아웃 시험 데이터이며 실제 카탈로그를 대체하지 않는다.
+- 후속은 Android만 변경했다. 서버 689개 성공 결과는 앞선 동일 서버 코드에 유효하다.
